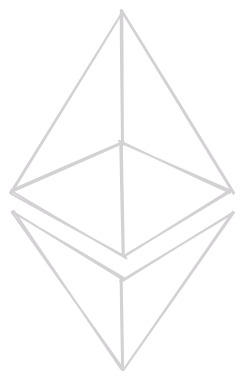
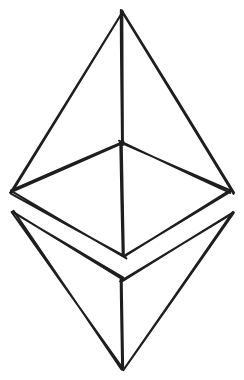
docs, whats eth: assets for light mode

diff --git a/docs/what_is_ethereum.md b/docs/what_is_ethereum.md
@@ -1,6 +1,6 @@
 # What is Ethereum?
 
-<img align="right" src="assets/eth.png" width="150px">
+<img align="right" src="assets/eth_dark.png" width="150px">
 
 The Ethereum network is a decentralized peer-to-peer network that processes Ethereum blocks and transactions. Ethereum's primary purpose is not just as a digital currency. It serves as a global, open-source computer that allows developers to build decentralized applications, which range from games to financial services. Powered by Ethereum's native cryptocurrency, Ether (ETH).
 
@@ -20,7 +20,7 @@ Every Ethereum network is divided into two layers:
 
 The Ethereum network consists of Ethereum nodes. An Ethereum node is a running instance of Ethereum software that consists of two components: an **execution client** and a **consensus client**. These clients are a part of their respective layers within the Ethereum network.
 
-<img src="assets/network.png"><br/>
+<img src="assets/network_dark.png"><br/>
 
 The consensus clients can also function as **validator clients**, which are also a part of the Ethereum's consensus mechanism. Validators, as the name suggests, are responsible of validating new blocks of transactions. The validator client connects to the Ethereum network's CL trough the **consensus client**, and it is possible for a these clients to perform the roles of both a consensus client and a validator client simultaneously.
 
